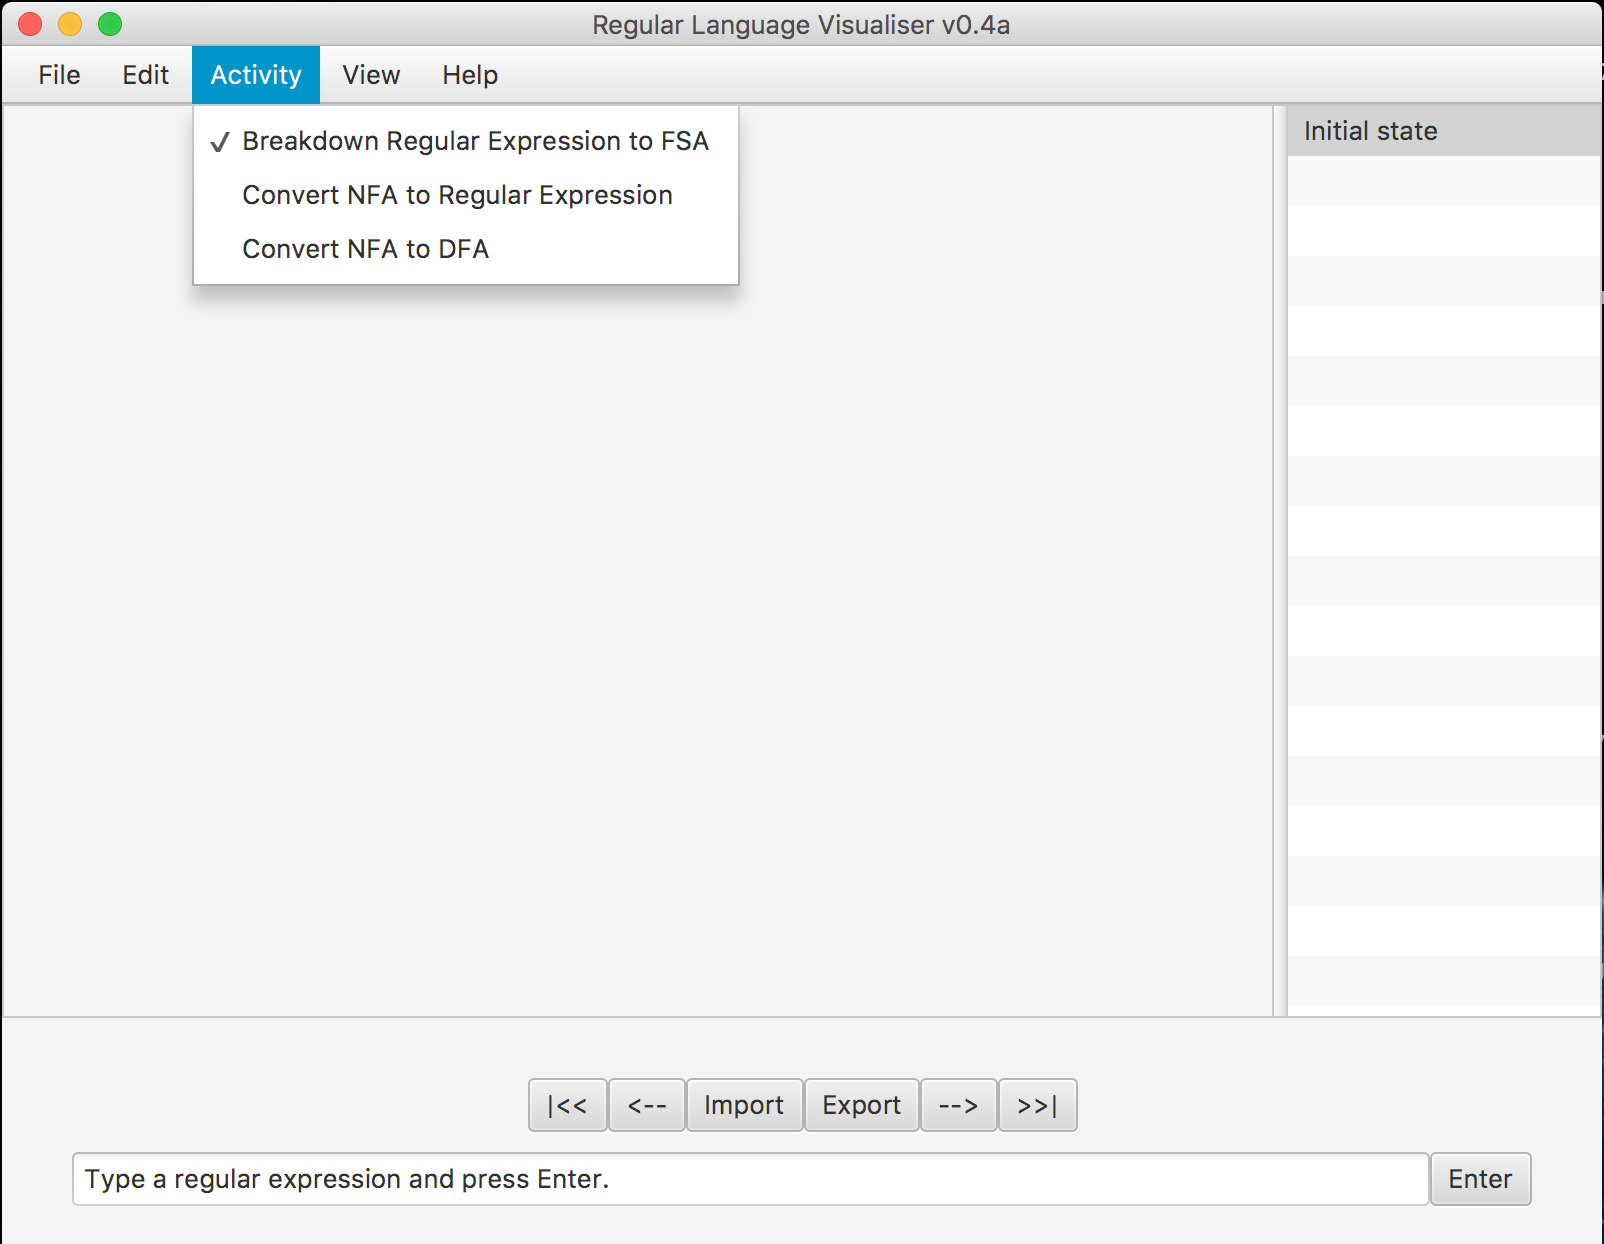
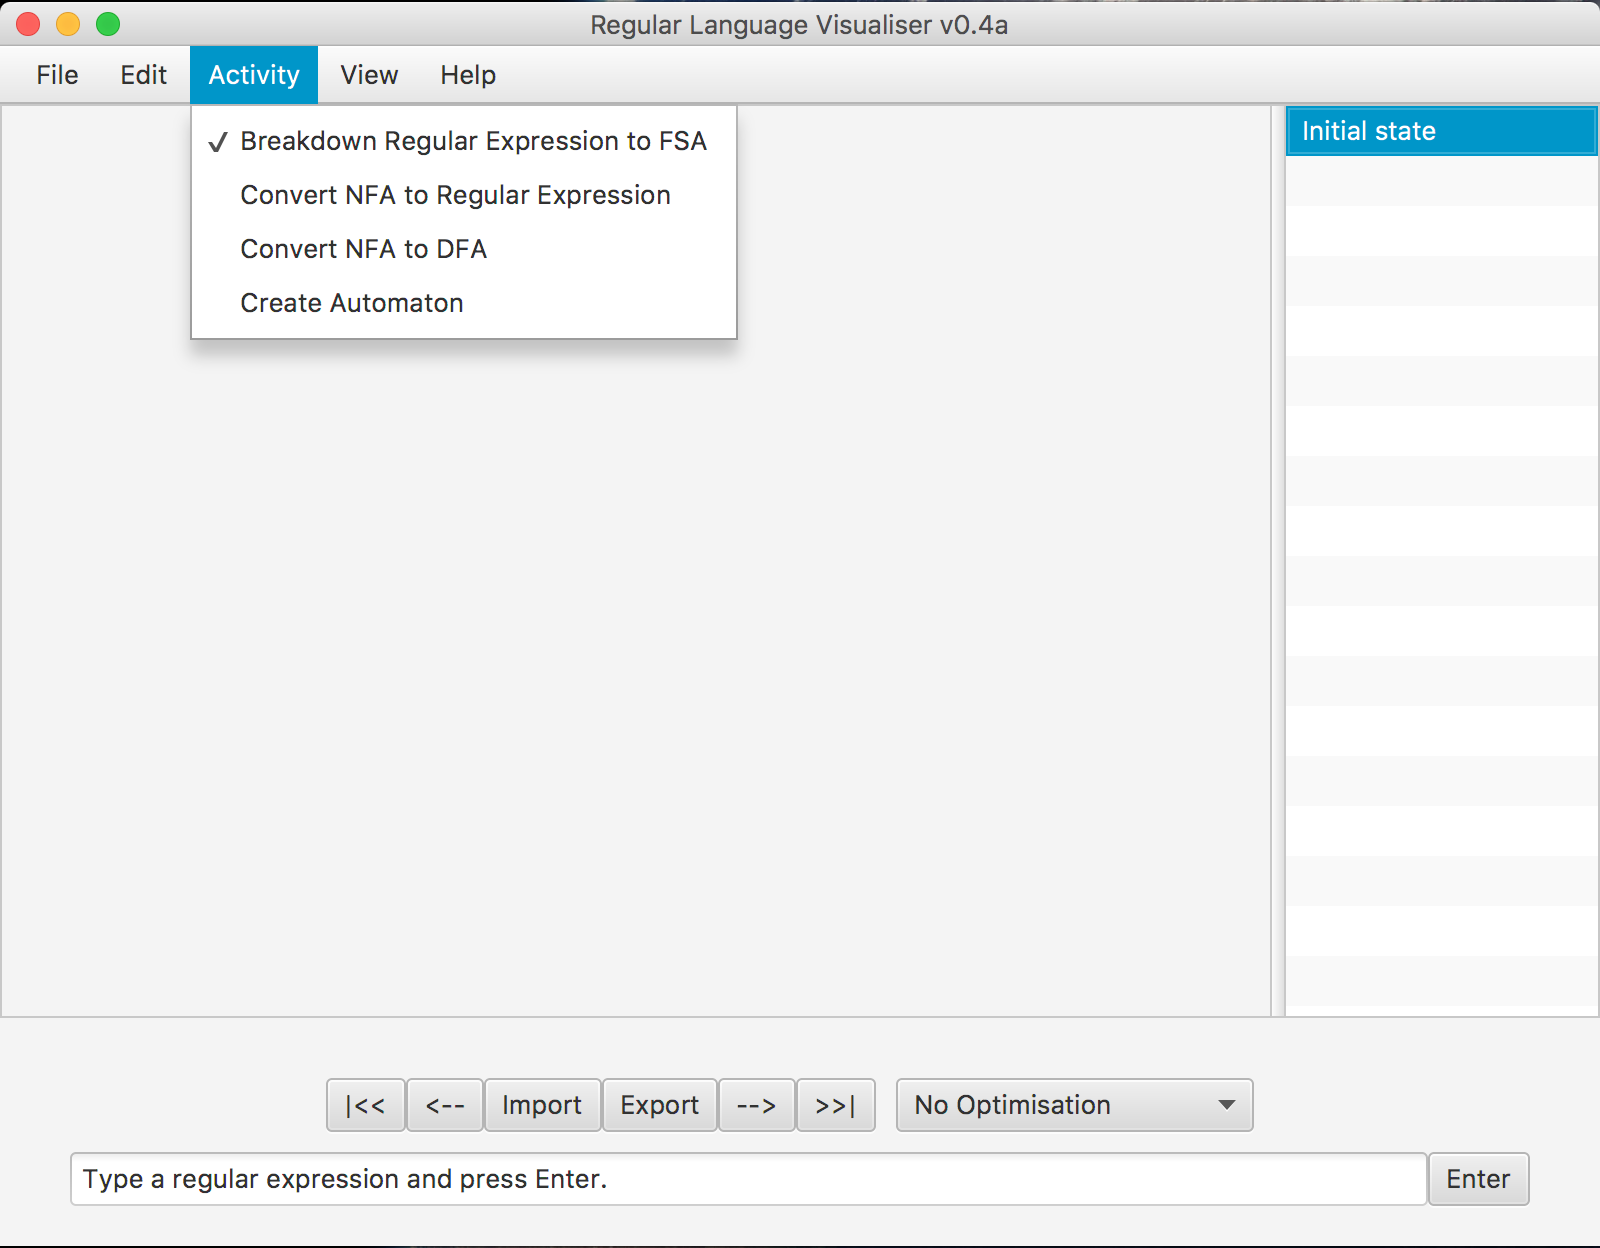
user guide final

diff --git a/regexp_vis/res/userguide/create-autom.html b/regexp_vis/res/userguide/create-autom.html
@@ -1,33 +1,37 @@
 <!DOCTYPE html>
 <head>
+<style>
+body{
+font-family: "Helvetica", Times, serif;
+}
+</style>
 <title>User Guide</title>
 </head>
 <body>
-<h1>NFA - DFA</h1>
-<p> STEP 2. Enter your regular expression, into the text area (this activity will completely breakdown the expression). Alternatively you can import a graph or resume from another activity.  <br> and press enter</p>
+<p><a href="index.html"> <- Return to index</a></p>
+<h1>Create Automaton</h1>
+<p> STEP 2. The starting node will appear on the canvas.
 <br>
-<img src="nfa-dfa2.png" style="width:350px;height:300px;">
+<img src="ca2.png" style="width:350px;height:300px;">
 <br>
-<p> STEP 3a. Right clicking on a node opens options: "show epsilon closure" will highlight states which are reachable through epsilon transitions. 
-<img src="nfa-dfa3.png" style="width:200px;height:150px;">
+<p> STEP 3. Right click anywhere on the canvas to create a new state.
+<img src="ca3.png" style="width:350px;height:300px;">
+<img src="ca3a.png" style="width:350px;height:300px;">
+<p> STEP 4. Then right click on a state to create a transition, a faded arrow/transition will appear, click on the corresponding state to add transition. Afterwards you can label the transition, to create a epsilon transition enter '%' into the pop-up window.  
 <br>
-<img src="nfa-dfa33.png" style="width:350px;height:300px;">
+<img src="ca4.png" style="width:350px;height:300px;">
+<img src="ca4a.png" style="width:350px;height:300px;">
 <br>
-<p> STEP 3b. Right clicking on a node opens options: "Remove outgoing epsilon transitions." will remove outgoing epsilon transitions, simultaneously adding transitions that can be reached through epsilon transitions.
-<img src="nfa-dfa3b.png" style="width:200px;height:150px;">
+<p> STEP 3c. Right clicking on a state will allow you to make it a final state, and right clicking on a final state allows you make it a state non-final.
 <br>
-<img src="nfa-dfa3bb.png" style="width:350px;height:300px;">
+<img src="ca5.png" style="width:350px;height:300px;">
+<img src="ca5a.png" style="width:350px;height:300px;">
 <br>
-<p> STEP 3c. Right clicking on a node opens some options: <br> "Remove unreachable state", will remove a state if and only if the transition is not reachable from the initial state.
-<img src="nfa-dfa3c.png" style="width:200px;height:150px;">
+<p> STEP 3d. Finally right clicking on state will also allow you remove it.
 <br>
-<img src="nfa-dfa3cc.png" style="width:350px;height:300px;">
+<img src="ca6.png" style="width:350px;height:300px;">
+<img src="ca6a.png" style="width:350px;height:300px;">
 <br>
-<p> STEP 3d. Right clicking on a node opens some options: <br> "Remove equivalent state" will remove states which had the same epsilon closure (does not remove all state are semantically equivalent).
-<img src="nfa-dfa3d.png" style="width:200px;height:150px;">
-<br>
-<img src="nfa-dfa3dd.png" style="width:350px;height:300px;">
-<br>
-<p><a href="index.html">Return to index</a></p>
+<p><a href="index.html"> <- Return to index</a></p>
 </body>
 </html>

diff --git a/regexp_vis/res/userguide/nfa-dfa.html b/regexp_vis/res/userguide/nfa-dfa.html
@@ -3,31 +3,36 @@
 <title>User Guide</title>
 </head>
 <body>
+<p><a href="index.html"> <- Return to index</a></p>
 <h1>NFA - DFA</h1>
 <p> STEP 2. Enter your regular expression, into the text area (this activity will completely breakdown the expression). Alternatively you can import a graph or resume from another activity.  <br> and press enter</p>
 <br>
 <img src="nfa-dfa2.png" style="width:350px;height:300px;">
 <br>
-<p> STEP 3a. Right clicking on a node opens options: "show epsilon closure" will highlight states which are reachable through epsilon transitions. 
-<img src="nfa-dfa3.png" style="width:200px;height:150px;">
 <br>
+<p> STEP 3a. Right clicking on a node opens options: "show epsilon closure" will highlight states which are reachable through epsilon transitions. 
+<br>
+<img src="nfa-dfa3.png" style="width:200px;height:150px;">
 <img src="nfa-dfa33.png" style="width:350px;height:300px;">
 <br>
-<p> STEP 3b. Right clicking on a node opens options: "Remove outgoing epsilon transitions." will remove outgoing epsilon transitions, simultaneously adding transitions that can be reached through epsilon transitions.
-<img src="nfa-dfa3b.png" style="width:200px;height:150px;">
 <br>
+<p> STEP 3b. Right clicking on a node opens options: "Remove outgoing epsilon transitions." will remove outgoing epsilon transitions, simultaneously adding transitions that can be reached through epsilon transitions.
+<br>
+<img src="nfa-dfa3b.png" style="width:200px;height:150px;">
 <img src="nfa-dfa3bb.png" style="width:350px;height:300px;">
 <br>
-<p> STEP 3c. Right clicking on a node opens some options: <br> "Remove unreachable state", will remove a state if and only if the transition is not reachable from the initial state.
-<img src="nfa-dfa3c.png" style="width:200px;height:150px;">
 <br>
+<p> STEP 3c. Right clicking on a node opens options: <br> "Remove unreachable state", will remove a state if and only if the transition is not reachable from the initial state.
+<br>
+<img src="nfa-dfa3c.png" style="width:200px;height:150px;">
 <img src="nfa-dfa3cc.png" style="width:350px;height:300px;">
 <br>
-<p> STEP 3d. Right clicking on a node opens some options: <br> "Remove equivalent state" will remove states which had the same epsilon closure (does not remove all state are semantically equivalent).
-<img src="nfa-dfa3d.png" style="width:200px;height:150px;">
 <br>
+<p> STEP 3d. Right clicking on a node opens options: <br> "Remove equivalent state" will remove states which had the same epsilon closure (does not remove all state are semantically equivalent).
+<br>
+<img src="nfa-dfa3d.png" style="width:200px;height:150px;">
 <img src="nfa-dfa3dd.png" style="width:350px;height:300px;">
 <br>
-<p><a href="index.html">Return to index</a></p>
+<p><a href="index.html"> <- Return to index</a></p>
 </body>
 </html>

diff --git a/regexp_vis/res/userguide/nfa-regex.html b/regexp_vis/res/userguide/nfa-regex.html
@@ -1,32 +1,40 @@
 <!DOCTYPE html>
 <head>
+<style>
+body{
+font-family: "Helvetica", Times, serif;
+}
+</style>
 <title>User Guide</title>
 </head>
 <body>
-<p> STEP 2. Enter your regular expression, into the text area (this activity will completely breakdown the expression). Alternatively you can import a graph or resume from another activity.  <br> and press enter</p>
+<p><a href="index.html"> <- Return to index</a></p>
+<h1>NFA - Regular Expression</h1>
+<p> STEP 2. Enter your regular expression, into the text area (this activity will completely breakdown the expression). Alternatively you can import a graph or resume from another activity
 <br>
 <img src="nfa-regex2.png" style="width:350px;height:300px;">
+<br>
 <br>
 <p> STEP 3a. once the graph appears, right clicking on a node opens options:  "Remove parallel transitions" will create a temporary arrow to choose which states to remove transitions between.
 <br>
 <img src="nfa-regex3a.png" style="width:200px;height:150px;">
 <br>
 <img src="nfa-regex3aa.png" style="width:350px;height:300px;">
-<br>
 <img src="nfa-regex3aaa.png" style="width:350px;height:300px;">
+<br>
 <br>
 <p> STEP 3b. Right clicking on a node opens options: "Remove State, Concatenate transitions" will concatenate in going transitions with the outgoing transitions then the state is removed.
 <br>
 <img src="nfa-regex3b.png" style="width:350px;height:300px;">
-<br>
 <img src="nfa-regex3bb.png" style="width:350px;height:300px;">
 <br>
-<p> STEP 3b. Right clicking on a node opens some options: "Remove loop" will only become available if there is one loop. Once the loop is removed the expression is put into a star in front of any regular expression leaving that state.
-<img src="nfa-regex3c.png" style="width:350px;height:300px;">
 <br>
+<p> STEP 3b. Right clicking on a node opens  options: "Remove loop" will only become available if there is one loop. Once the loop is removed the expression is put into a star in front of any regular expression leaving that state.
+<br>
+<img src="nfa-regex3c.png" style="width:350px;height:300px;">
 <img src="nfa-regex3cc.png" style="width:350px;height:300px;">
 <br>
-<p><a href="index.html">Return to index</a></p>
+<p><a href="index.html"> <- Return to index</a></p>
 
 </body>
 </html>

diff --git a/regexp_vis/res/userguide/regex-fsa.html b/regexp_vis/res/userguide/regex-fsa.html
@@ -1,24 +1,35 @@
 <!DOCTYPE html>
 <head>
+<style>
+body{
+font-family: "Helvetica", Times, serif;
+}
+</style>
 <title>User Guide</title>
 </head>
 <body>
+<p><a href="index.html"> <- Return to index</a></p>
+<h1> Regular Expression - FSA </h1>
 <p> STEP 2. Enter your regular expression, into the text area <br> and press enter</p>
 <br>
 <img src="regex-fsa2.png" style="width:350px;height:300px;">
+<br>
 <br>
 <p> STEP 3. Once your graph appears, you can left click on a state and drag to reposition it <p>
 <br>
 <img src="regex-fsa3.png" style="width:350px;height:300px;">
 <br>
+<br>
 <p> STEP 4. Move the cursor onto a label between two states, double clicking on a label will break the expression down. <p>
 <br>
 <img src="regex-fsa4.png" style="width:350px;height:300px;">
+<br>
 <br>
 <p> STEP 5. On the right of the window there is a history list. It shows a brief explanation of the breakdown, additionally you can move through the various stages using the buttons above the text area or by selecting items from the history list.
 <br>
 <img src="regex-fsa5.png" style="width:350px;height:300px;">
 <br>
-<p><a href="index.html">Return to index</a></p>
+<br>
+<p><a href="index.html"> <- Return to index</a></p>
 </body>
 </html>

diff --git a/regexp_vis/res/userguide/index.html b/regexp_vis/res/userguide/index.html
@@ -1,6 +1,11 @@
 <!DOCTYPE html>
 
 <head>
+<style>
+body{
+font-family: "Helvetica", Times, serif;
+}
+</style>
 
 <title>User Guide</title>
 </head>
@@ -17,6 +22,11 @@
 <a href="nfa-dfa.html"> Convert NFA To DFA<a>
 <br>
 <br>
+<a href="create-autom.html"> Create Automaton<a>
+<br>
+<br>
+<br>
+<img src="labeled.png" style="width:600px;height:460px;">
 
 </body>
 </html>

diff --git a/regexp_vis/src/controller/UserGuideView.java b/regexp_vis/src/controller/UserGuideView.java
@@ -17,8 +17,8 @@ import javafx.scene.web.WebView;
  */
 public class UserGuideView extends Region {
 
-    public static final double WIDTH = 800;
-    public static final double HEIGHT = 600;
+    public static final double WIDTH = 760;
+    public static final double HEIGHT = 500;
 
     private final WebView browser;
     private final WebEngine engine;
